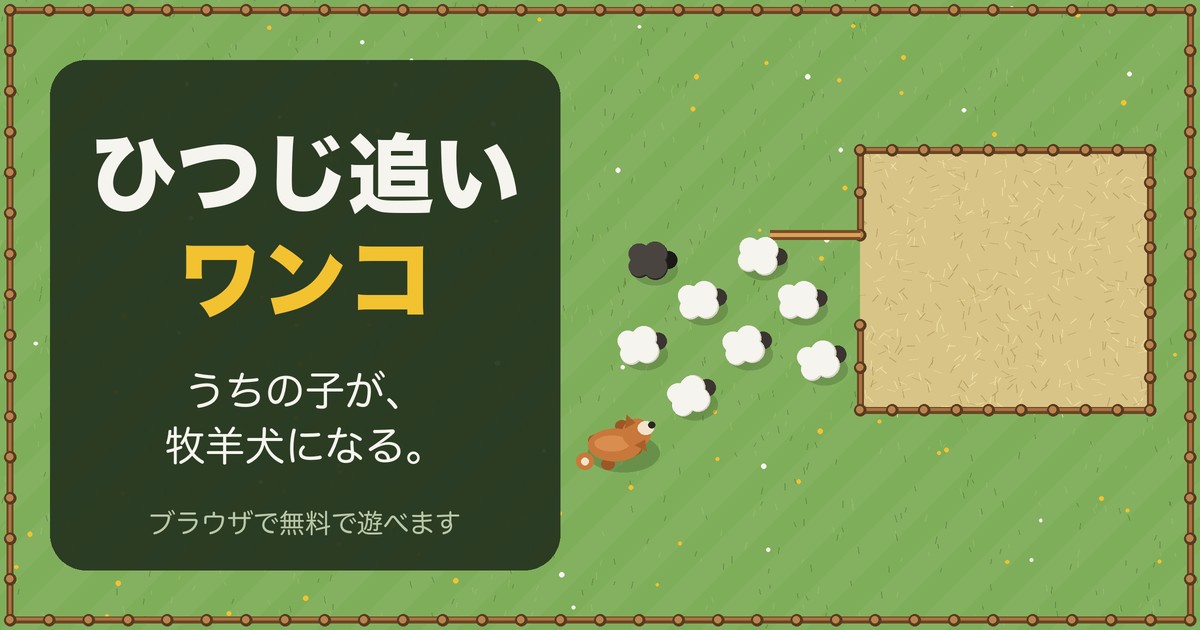
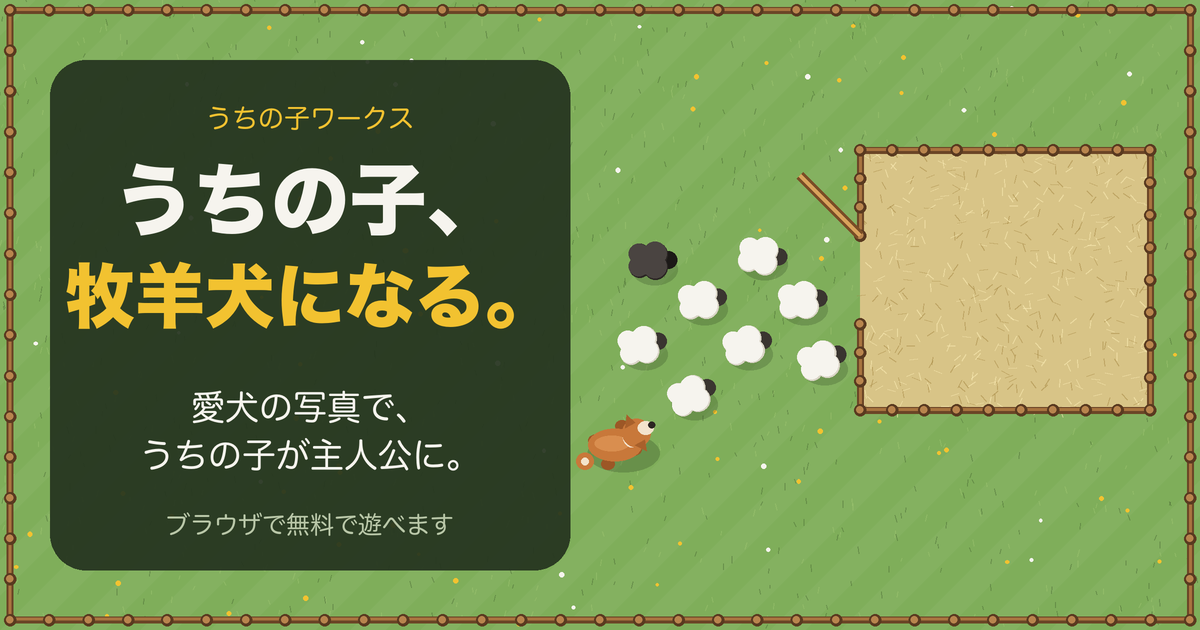
v0.6.1: rename to うちの子、牧羊犬になる。 (series うちの子ワークス)
- Title, header, OGP/Twitter card, og.png and store cover use the new
  name; titles switch to the rounded face (the display face lacks 牧羊犬)
  and the title is set on two fixed lines
- Share text and card read as the owner's brag ("クロ、牧羊犬になりました！
  チャンピオン牧羊犬に認定") with #うちの子牧羊犬 #うちの子ワークス
- The dog profile moves to the series-wide key uchinoko-dog (migrated
  from hitsuji-dog) so later うちの子ワークス games can reuse the same dog
- URL and repository name stay hitsuji-oi-wanko so shared links keep working

diff --git a/game.js b/game.js
@@ -922,11 +922,20 @@
   const photoInput = document.getElementById('photoInput');
   const photoClear = document.getElementById('photoClear');
 
+  // The dog (name, photo, look) is shared by every うちの子ワークス game on this site, so it lives under a
+  // series-wide key; this game's own progress stays under hitsuji-*. Older versions saved it as hitsuji-dog.
+  const PROFILE_KEY = 'uchinoko-dog';
+  try {
+    if (localStorage.getItem(PROFILE_KEY) === null && localStorage.getItem('hitsuji-dog') !== null) {
+      localStorage.setItem(PROFILE_KEY, localStorage.getItem('hitsuji-dog'));
+      localStorage.removeItem('hitsuji-dog');
+    }
+  } catch (e) {}
   function loadProfile() {
-    try { const p = JSON.parse(localStorage.getItem('hitsuji-dog')); return p && typeof p === 'object' ? p : {}; } catch (e) { return {}; }
+    try { const p = JSON.parse(localStorage.getItem(PROFILE_KEY)); return p && typeof p === 'object' ? p : {}; } catch (e) { return {}; }
   }
   function saveProfile(patch) {
-    try { localStorage.setItem('hitsuji-dog', JSON.stringify(Object.assign(loadProfile(), patch))); return true; } catch (e) { return false; }
+    try { localStorage.setItem(PROFILE_KEY, JSON.stringify(Object.assign(loadProfile(), patch))); return true; } catch (e) { return false; }
   }
 
   function rgbToHsl(r, g, b) {
@@ -1245,9 +1254,10 @@
   });
 
   // ---------- share: a result card the player sends themselves (nothing is uploaded by the game) ----------
+  // written as the owner's own brag ("Kuro became a sheepdog!"), with the game's unique tag and the series tag
   function shareText(r) {
-    return (r.name ? r.name + 'は' : '') + r.rank + '！ ひつじ追いワンコ ステージ' + (r.stage + 1) + '「' + STAGES[r.stage].name + '」を'
-      + fmt(r.time) + 'でクリア ' + starText(r.stars) + ' #ひつじ追いワンコ';
+    return (r.name ? r.name : 'うちの子') + '、牧羊犬になりました！ ' + r.rank + 'に認定 ' + starText(r.stars)
+      + '（ステージ' + (r.stage + 1) + '「' + STAGES[r.stage].name + '」' + fmt(r.time) + '） #うちの子牧羊犬 #うちの子ワークス';
   }
   function fitFont(g, text, maxW, size, face) {
     let s = size;
@@ -1285,21 +1295,24 @@
       g.restore();
     }
     g.textAlign = 'center'; g.textBaseline = 'alphabetic';
-    const headline = (r.name ? r.name + 'は' : '') + r.rank + '！';
     // the rounded body face has full kanji coverage (the logo face lacks words like 牧羊犬)
-    g.fillStyle = '#f6f4ee'; fitFont(g, headline, 860, 72, '800 {s}px "M PLUS Rounded 1c", sans-serif');
-    g.fillText(headline, 540, 560);
-    g.fillStyle = '#f2c230'; g.font = '110px "Hiragino Sans", "Yu Gothic", sans-serif';
-    g.fillText(starText(r.stars), 540, 690);
-    const stageLine = 'ステージ' + (r.stage + 1) + '「' + STAGES[r.stage].name + '」';
-    g.fillStyle = '#b9c7a8'; fitFont(g, stageLine, 860, 42, '800 {s}px "M PLUS Rounded 1c", sans-serif');
-    g.fillText(stageLine, 540, 775);
-    g.fillStyle = '#f6f4ee'; g.font = '800 64px "M PLUS Rounded 1c", sans-serif';
-    g.fillText('タイム ' + fmt(r.time), 540, 860);
-    g.fillStyle = '#f2c230'; g.font = '44px "Dela Gothic One", sans-serif';
-    g.fillText('ひつじ追いワンコ', 540, 940);
+    const headline = (r.name ? r.name : 'うちの子') + '、牧羊犬になりました！';
+    g.fillStyle = '#f6f4ee'; fitFont(g, headline, 860, 66, '800 {s}px "M PLUS Rounded 1c", sans-serif');
+    g.fillText(headline, 540, 545);
+    const rankLine = r.rank + 'に認定';
+    g.fillStyle = '#f2c230'; fitFont(g, rankLine, 860, 46, '800 {s}px "M PLUS Rounded 1c", sans-serif');
+    g.fillText(rankLine, 540, 612);
+    g.font = '96px "Hiragino Sans", "Yu Gothic", sans-serif';
+    g.fillText(starText(r.stars), 540, 718);
+    const stageLine = 'ステージ' + (r.stage + 1) + '「' + STAGES[r.stage].name + '」　タイム ' + fmt(r.time);
+    g.fillStyle = '#b9c7a8'; fitFont(g, stageLine, 860, 40, '800 {s}px "M PLUS Rounded 1c", sans-serif');
+    g.fillText(stageLine, 540, 800);
+    g.fillStyle = '#f6f4ee'; g.font = '800 34px "M PLUS Rounded 1c", sans-serif';
+    g.fillText('#うちの子牧羊犬', 540, 862);
+    g.fillStyle = '#f2c230'; g.font = '800 40px "M PLUS Rounded 1c", sans-serif';
+    g.fillText('うちの子、牧羊犬になる。', 540, 934);
     g.fillStyle = '#b9c7a8'; g.font = '700 24px "M PLUS Rounded 1c", sans-serif';
-    g.fillText(SITE.replace('https://', '').replace(/\/$/, ''), 540, 980);
+    g.fillText('うちの子ワークス　' + SITE.replace('https://', '').replace(/\/$/, ''), 540, 978);
     return new Promise((res, rej) => c.toBlob(b => (b ? res(b) : rej(new Error('toBlob failed'))), 'image/png'));
   }
 
@@ -1322,7 +1335,7 @@
       const blob = cardBlob || await cardPromise;
       if (!blob) return;
       const text = shareText(lastResult);
-      const file = new File([blob], 'hitsuji-oi-wanko.png', { type: 'image/png' });
+      const file = new File([blob], 'uchinoko-sheepdog.png', { type: 'image/png' });
       if (navigator.canShare && navigator.canShare({ files: [file] })) {
         try { await navigator.share({ files: [file], text: text + ' ' + SITE }); return; }
         catch (e) { if (e && e.name === 'AbortError') return; }   // other failures fall through to the sheet

diff --git a/index.html b/index.html
@@ -5,33 +5,33 @@
 <meta name="viewport" content="width=device-width, initial-scale=1, viewport-fit=cover">
 <meta http-equiv="Content-Security-Policy" content="default-src 'none'; script-src 'self'; style-src 'self' https://fonts.googleapis.com; font-src https://fonts.gstatic.com; img-src 'self' data: blob:; connect-src 'none'; media-src 'none'; object-src 'none'; base-uri 'none'; form-action 'none'">
 <meta name="referrer" content="no-referrer">
-<title>ひつじ追いワンコ</title>
-<meta name="description" content="うちの子が、牧羊犬になる。犬を操って羊を小屋に追い込むブラウザゲーム。自分の犬の写真で主人公になれます。">
+<title>うちの子、牧羊犬になる。｜うちの子ワークス</title>
+<meta name="description" content="愛犬の写真で、うちの子が主人公に。犬を操って羊を小屋に追い込むブラウザゲーム。うちの子ワークス第1弾。">
 <meta name="theme-color" content="#24331f">
 <link rel="icon" href="favicon.svg" type="image/svg+xml">
 <link rel="apple-touch-icon" href="apple-touch-icon.png">
 <!-- link previews (LINE, X, Slack, ...) -->
 <meta property="og:type" content="website">
-<meta property="og:site_name" content="ひつじ追いワンコ">
-<meta property="og:title" content="ひつじ追いワンコ｜うちの子が、牧羊犬になる。">
-<meta property="og:description" content="犬を操って羊を小屋に追い込むブラウザゲーム。自分の犬の写真で主人公になれます。インストール不要、スマホでも遊べます。">
+<meta property="og:site_name" content="うちの子ワークス">
+<meta property="og:title" content="うちの子、牧羊犬になる。｜うちの子ワークス">
+<meta property="og:description" content="愛犬の写真で、うちの子が主人公に。犬を操って羊を小屋に追い込むブラウザゲーム。インストール不要、スマホでも無料で遊べます。">
 <meta property="og:url" content="https://takahitochujo.github.io/hitsuji-oi-wanko/">
 <meta property="og:image" content="https://takahitochujo.github.io/hitsuji-oi-wanko/og.png">
 <meta property="og:image:width" content="1200">
 <meta property="og:image:height" content="630">
-<meta property="og:image:alt" content="牧場で犬が羊を小屋へ追い込んでいるイラストと、ひつじ追いワンコのロゴ">
+<meta property="og:image:alt" content="牧場で犬が羊を小屋へ追い込んでいるイラストと、「うちの子、牧羊犬になる。」のタイトル">
 <meta property="og:locale" content="ja_JP">
 <meta name="twitter:card" content="summary_large_image">
 <link rel="preconnect" href="https://fonts.googleapis.com">
 <link rel="preconnect" href="https://fonts.gstatic.com" crossorigin>
 <link rel="stylesheet" href="https://fonts.googleapis.com/css2?family=Dela+Gothic+One&family=M+PLUS+Rounded+1c:wght@400;700;800&display=swap">
 <!-- bump ?v= on every release so browsers never mix a new page with a cached old script -->
-<link rel="stylesheet" href="style.css?v=0.6.0">
+<link rel="stylesheet" href="style.css?v=0.6.1">
 </head>
 <body>
 <div class="app">
   <header class="hud">
-    <div class="brand">ひつじ追い<span>ワンコ</span></div>
+    <div class="brand">うちの子、<span>牧羊犬になる。</span></div>
     <div class="stat"><span class="lbl">小屋の中</span><span class="val" id="count">0 / 6</span></div>
     <div class="stat"><span class="lbl">タイム</span><span class="val" id="time">0:00.0</span></div>
     <div class="btns">
@@ -51,8 +51,8 @@
 
     <div class="overlay" id="titleOv">
       <div class="card">
-        <h1>ひつじ追い<span>ワンコ</span></h1>
-        <p class="tagline">うちの子が、牧羊犬になる。</p>
+        <p class="series">UCHINOKO WORKS／うちの子ワークス</p>
+        <h1>うちの子、<span>牧羊犬になる。</span></h1>
         <p>羊を小屋に追い込んで、最後にゲートを閉めたらクリア。全5ステージ。</p>
         <button id="startBtn" class="primary" type="button">あそぶ</button>
         <section class="hero" aria-label="主人公">
@@ -182,7 +182,7 @@
         <div class="menu two">
           <a class="btn" id="shareX" target="_blank" rel="noopener noreferrer">X でポスト</a>
           <a class="btn" id="shareLine" target="_blank" rel="noopener noreferrer">LINE で送る</a>
-          <a class="btn" id="shareSave" download="hitsuji-oi-wanko.png">画像を保存</a>
+          <a class="btn" id="shareSave" download="uchinoko-sheepdog.png">画像を保存</a>
           <button id="shareCopy" type="button">文章をコピー</button>
         </div>
         <label class="share-text" id="shareTextWrap" hidden>
@@ -194,6 +194,6 @@
     </div>
   </div>
 </div>
-<script src="game.js?v=0.6.0"></script>
+<script src="game.js?v=0.6.1"></script>
 </body>
 </html>

diff --git a/style.css b/style.css
@@ -35,7 +35,8 @@ body { margin: 0; font-size: 14px; }
     background: var(--moss);
     border-bottom: 3px solid var(--moss-2);
   }
-  .brand { font-family: var(--font-display); font-size: 1.15rem; letter-spacing: .02em; margin-right: auto; }
+  /* the title has kanji (牧羊犬) the display face lacks, so titles use the heavy rounded body face */
+  .brand { font-weight: 800; font-size: 1.1rem; letter-spacing: .02em; margin-right: auto; }
   .brand span { color: var(--gorse); }
   .stat { display: flex; align-items: baseline; gap: 6px; font-variant-numeric: tabular-nums; }
   .stat .lbl { font-size: .72rem; color: var(--muted); letter-spacing: .08em; }
@@ -115,7 +116,9 @@ body { margin: 0; font-size: 14px; }
   .card .all-clear { text-align: center; color: var(--gorse); font-weight: 800; }
 
   /* title */
-  .card .tagline { font-weight: 800; color: var(--wool); font-size: 1.1rem; margin-top: -6px; }
+  .card .series { font-weight: 800; font-size: .78rem; letter-spacing: .1em; color: var(--gorse); margin-bottom: -8px; }
+  /* two fixed lines: 「うちの子、」/「牧羊犬になる。」 never breaks inside 牧羊犬 */
+  #titleOv h1 span { display: block; }
   .how-wrap summary { cursor: pointer; font-weight: 800; color: var(--gorse); padding-block: 4px; }
   .how-wrap summary:focus-visible { outline: 3px solid var(--gorse); outline-offset: 2px; border-radius: 6px; }
   .how-wrap[open] summary { margin-bottom: 8px; }
@@ -196,7 +199,7 @@ body { margin: 0; font-size: 14px; }
     box-shadow: 0 18px 40px rgba(0,0,0,.35);
   }
   .card h1, .card h2 { margin: 0; font-family: var(--font-display); font-weight: 400; line-height: 1.2; text-wrap: balance; }
-  .card h1 { font-size: 2rem; }
+  .card h1 { font-family: var(--font-body); font-weight: 800; font-size: 2rem; letter-spacing: -.01em; }
   .card h1 span, .card h2 span { color: var(--gorse); }
   .card h2 { font-size: 1.6rem; }
   .card p { margin: 0; line-height: 1.7; color: var(--muted); }

diff --git a/README.md b/README.md
@@ -1,6 +1,8 @@
-# ひつじ追いワンコ
+# うちの子、牧羊犬になる。
 
-**うちの子が、牧羊犬になる。** 犬を操って、牧場に散らばった羊を小屋に追い込むブラウザゲームです。全部入れたら、最後にゲートを閉めてクリア。全5ステージ。
+**うちの子ワークス**（UCHINOKO WORKS）第1弾。愛犬の写真で、うちの子が主人公になるブラウザゲームです。犬を操って、牧場に散らばった羊を小屋に追い込み、最後にゲートを閉めたらクリア。全5ステージ。
+
+シェアするときのハッシュタグ：**#うちの子牧羊犬** **#うちの子ワークス**
 
 **遊ぶ:** https://takahitochujo.github.io/hitsuji-oi-wanko/
 
@@ -78,6 +80,10 @@
 
 クリア画面の「結果をシェア」で、犬の顔と全身の姿・ランク・★・タイムの入った画像を作ります。スマホでは端末の共有メニュー（LINE、X、Instagram など）が開きます。共有メニューがない環境では、画像の保存、X へのポスト、LINE で送る、文章のコピーができる画面が開きます。
 
+## 名前について
+
+旧タイトルは「ひつじ追いワンコ」です。すでに共有されたリンクが切れないように、URL とリポジトリ名は `hitsuji-oi-wanko` のままにしています。
+
 ## ファイル構成
 
 ```
@@ -93,7 +99,7 @@ og.png                リンクを貼ったときに出る画像（1200×630）
 
 ## プライバシー
 
-- ゲームが外部へデータを送ることはありません。ベストタイム、★、音のON/OFF、主人公の名前と写真（縮小版）と見た目の設定は、遊んでいる人のブラウザの中（localStorage）にだけ保存されます。「写真を外す」を押すと、写真は消えます。
+- ゲームが外部へデータを送ることはありません。ベストタイム、★、音のON/OFF、主人公の名前と写真（縮小版）と見た目の設定は、遊んでいる人のブラウザの中（localStorage）にだけ保存されます。主人公の設定は、同じサイトで公開する「うちの子ワークス」の他のゲームでも使えるように、シリーズ共通の場所（`uchinoko-dog`）に保存しています。「写真を外す」を押すと、写真は消えます。
 - 写真の読み込みと切り抜きは、すべてブラウザの中で行います。Content-Security-Policy で外部への通信（`connect-src`）を禁止しているので、仕組みのうえでも送信できません。
 - 「結果をシェア」で作る画像には、主人公の写真が入ります。画像は遊んでいる人が自分で共有先を選んで送るもので、ゲームがどこかへアップロードすることはありません。
 - フォントは Google Fonts から読み込んでいます。そのため、遊んだ人のIPアドレスが Google に送られます。
